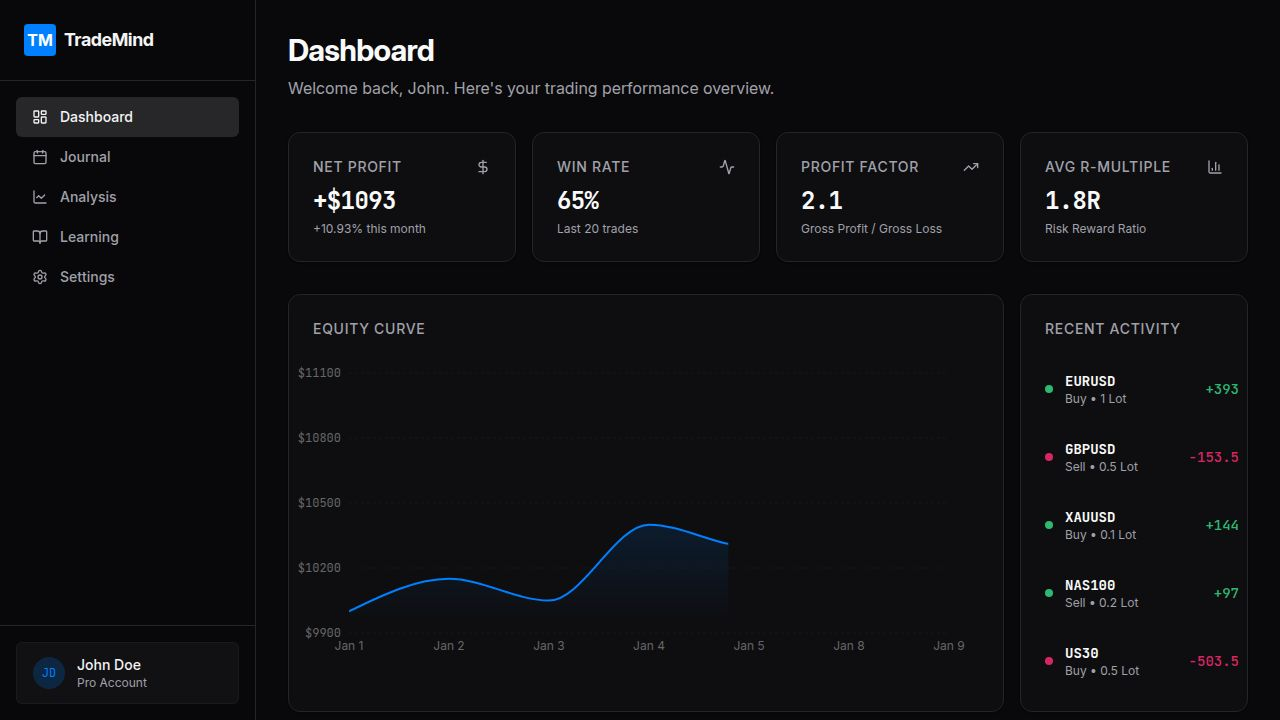
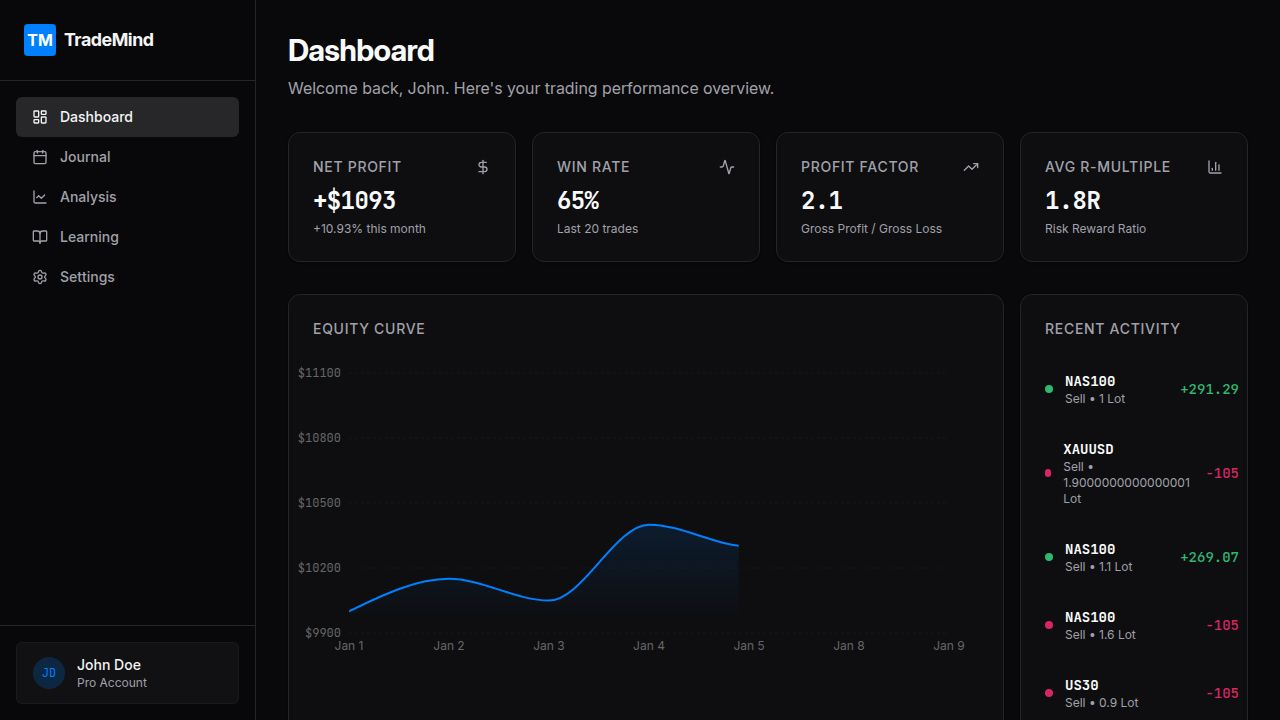
Show cash drawdown and trades without stop losses
Update trade detail and journal views to display cash drawdown values. Enhance handling and visualization for trades executed without a hard stop loss, including distinct visual indicators and dynamic risk meters. Modify mock data generation to include cash drawdown and nullable stop loss fields.

Replit-Commit-Author: Agent
Replit-Commit-Session-Id: adc6ed05-09b4-4daa-a0f5-c6fe3a082ec6
Replit-Commit-Checkpoint-Type: full_checkpoint
Replit-Commit-Event-Id: 38c60733-19ca-41ec-b584-8cf8ec9b6a53
Replit-Commit-Screenshot-Url: https://storage.googleapis.com/screenshot-production-us-central1/bfe7f2a2-c9fd-4262-94a4-60b7cccc9a91/adc6ed05-09b4-4daa-a0f5-c6fe3a082ec6/rLb1wAi
Replit-Helium-Checkpoint-Created: true

diff --git a/client/src/components/trade-detail.tsx b/client/src/components/trade-detail.tsx
@@ -6,9 +6,8 @@ import { Badge } from "@/components/ui/badge";
 import { ScrollArea } from "@/components/ui/scroll-area";
 import { Trade } from "@/lib/mock-data";
 import { format } from "date-fns";
-import { Sparkles, AlertTriangle, CheckCircle2, TrendingDown, Target, ShieldAlert } from "lucide-react";
+import { Sparkles, AlertTriangle, CheckCircle2, ShieldAlert, Ban } from "lucide-react";
 import { cn } from "@/lib/utils";
-import { Progress } from "@/components/ui/progress";
 
 interface TradeDetailProps {
   trade: Trade | null;
@@ -22,10 +21,10 @@ export function TradeDetail({ trade, isOpen, onClose }: TradeDetailProps) {
   const isWin = trade.netPnl > 0;
   
   // Calculate percentages for the drawdown visualization
-  // Total range = Risk + MFE (visualize the full excursion of the trade)
-  const maeRatio = Math.min(trade.mae / trade.risk, 1.2); // Cap at 120% for visual
-  const mfeRatio = trade.mfe / trade.risk;
+  // If NO SL, we use a synthetic "risk" baseline of 20 points just for visualization scaling
+  const visualRiskBaseline = trade.risk || 20; 
   
+  const maeRatio = Math.min(trade.mae / visualRiskBaseline, 1.5); // Cap at 150%
   const maePercent = Math.round(maeRatio * 100);
 
   return (
@@ -63,9 +62,9 @@ export function TradeDetail({ trade, isOpen, onClose }: TradeDetailProps) {
                 <div className="font-mono font-medium">{trade.closePrice.toFixed(4)}</div>
               </div>
               <div>
-                <div className="text-xs text-muted-foreground mb-1 uppercase tracking-wider">R-Mult</div>
-                <div className={cn("font-mono font-medium", isWin ? "text-profit" : "text-loss")}>
-                  {(trade.pnl / 100).toFixed(1)}R
+                <div className="text-xs text-muted-foreground mb-1 uppercase tracking-wider">Risk</div>
+                <div className={cn("font-mono font-medium text-xs", !trade.risk && "text-destructive")}>
+                  {trade.risk ? `-${trade.risk}pts` : "NO SL"}
                 </div>
               </div>
             </div>
@@ -83,15 +82,20 @@ export function TradeDetail({ trade, isOpen, onClose }: TradeDetailProps) {
               <div className="space-y-2">
                 <div className="flex justify-between text-xs font-medium">
                   <span className="text-muted-foreground">Entry</span>
-                  <span className="text-destructive">Stop Loss Risk ({trade.risk} pts)</span>
+                  {trade.risk ? (
+                    <span className="text-destructive">Stop Loss Risk ({trade.risk} pts)</span>
+                  ) : (
+                    <span className="text-destructive flex items-center gap-1"><Ban className="w-3 h-3" /> No Hard Stop</span>
+                  )}
                 </div>
                 
                 {/* Custom Risk Meter */}
-                <div className="relative h-4 bg-muted rounded-full overflow-hidden w-full">
+                <div className="relative h-6 bg-muted rounded-md overflow-hidden w-full border border-border/50">
                   {/* Heat Bar (MAE) */}
                   <div 
                     className={cn(
-                      "absolute top-0 left-0 h-full transition-all duration-500 rounded-full",
+                      "absolute top-0 left-0 h-full transition-all duration-500",
+                      !trade.risk && trade.mae > 30 ? "bg-destructive animate-pulse" : // No SL and huge drawdown
                       maeRatio > 1 ? "bg-destructive" : // Hit SL
                       maeRatio > 0.8 ? "bg-orange-500" : // High heat
                       maeRatio > 0.5 ? "bg-yellow-500" : // Moderate heat
@@ -100,24 +104,33 @@ export function TradeDetail({ trade, isOpen, onClose }: TradeDetailProps) {
                     style={{ width: `${Math.min(maePercent, 100)}%` }}
                   />
                   
-                  {/* Stop Loss Marker Line */}
-                  <div className="absolute top-0 right-0 w-0.5 h-full bg-destructive z-10" />
+                  {/* Text Overlay on Bar */}
+                  <div className="absolute inset-0 flex items-center px-2 z-10">
+                     <span className="text-[10px] font-mono font-bold text-white drop-shadow-md">
+                       -${trade.mae_cash.toFixed(2)} ({trade.mae}pts)
+                     </span>
+                  </div>
+                  
+                  {/* Stop Loss Marker Line (only if SL exists) */}
+                  {trade.risk && (
+                    <div className="absolute top-0 right-0 w-0.5 h-full bg-destructive z-10 opacity-50" />
+                  )}
                 </div>
 
                 <div className="flex justify-between items-start text-xs font-mono pt-1">
                   <div>
-                    <span className="text-muted-foreground">Max Adverse: </span>
+                    <span className="text-muted-foreground">Max Heat: </span>
                     <span className={cn(
                       "font-bold",
                       maeRatio > 0.8 ? "text-destructive" : "text-foreground"
                     )}>
-                      {trade.mae} pts ({maePercent}%)
+                      {trade.mae} pts
                     </span>
                   </div>
                   <div>
-                    <span className="text-muted-foreground">Max Favorable: </span>
+                    <span className="text-muted-foreground">Peak Profit: </span>
                     <span className="text-profit font-bold">
-                      {trade.mfe} pts
+                      +{trade.mfe} pts
                     </span>
                   </div>
                 </div>
@@ -128,16 +141,17 @@ export function TradeDetail({ trade, isOpen, onClose }: TradeDetailProps) {
                 <div className="bg-accent/30 rounded-lg p-3 border border-border">
                   <div className="text-xs text-muted-foreground uppercase tracking-wider mb-1">Drawdown Efficiency</div>
                   <div className="text-sm font-medium">
-                    {maeRatio < 0.2 ? "sniper entry (no heat)" :
-                     maeRatio < 0.5 ? "Clean entry (normal noise)" :
-                     maeRatio < 0.9 ? "Heavy drawdown (held thru)" :
+                    {!trade.risk ? "Unprotected Trade" :
+                     maeRatio < 0.2 ? "Sniper entry" :
+                     maeRatio < 0.5 ? "Clean entry" :
+                     maeRatio < 0.9 ? "Heavy drawdown" :
                      "Stopped out / Failed"}
                   </div>
                 </div>
                 <div className="bg-accent/30 rounded-lg p-3 border border-border">
-                   <div className="text-xs text-muted-foreground uppercase tracking-wider mb-1">Excursion Ratio</div>
-                   <div className="text-sm font-medium font-mono">
-                     1:{ (trade.mfe / (trade.mae || 1)).toFixed(1) }
+                   <div className="text-xs text-muted-foreground uppercase tracking-wider mb-1">Max Cash Risk</div>
+                   <div className="text-sm font-medium font-mono text-destructive">
+                     -${trade.mae_cash.toFixed(2)}
                    </div>
                 </div>
               </div>

diff --git a/client/src/lib/mock-data.ts b/client/src/lib/mock-data.ts
@@ -18,11 +18,13 @@ export type Trade = {
   notes: string;
   // Risk & Drawdown fields
   mae: number; // Maximum Adverse Excursion (points/pips)
+  mae_cash: number; // Maximum Adverse Excursion (cash value)
   mfe: number; // Maximum Favorable Excursion (points/pips)
-  risk: number; // Planned Stop Loss distance (points/pips)
+  risk: number | null; // Planned Stop Loss distance (points/pips) - Null if no SL
+  risk_cash: number | null; // Planned Stop Loss value (cash) - Null if no SL
   entry_price: number; 
-  sl_price: number;
-  tp_price: number;
+  sl_price: number | null;
+  tp_price: number | null;
   
   aiSummary?: {
     summary: string;
@@ -52,30 +54,45 @@ const generateMockTrades = (): Trade[] => {
       for (let i = 0; i < numTrades; i++) {
         const isWin = Math.random() > 0.45; // 55% win rate
         const side = Math.random() > 0.5 ? "BUY" : "SELL";
+        const hasSL = Math.random() > 0.2; // 20% trades have NO SL
         
         // Mock points calculation (simplified)
-        const riskPoints = Math.floor(Math.random() * 20) + 10; // 10-30 points risk
+        const riskPointsBase = Math.floor(Math.random() * 20) + 10; // 10-30 points standard risk
+        const riskPoints = hasSL ? riskPointsBase : null;
+        
+        // If No SL, we still need a "virtual risk" for reward calculation logic, or just random
+        const virtualRisk = riskPointsBase;
+        
         const rewardPoints = isWin 
-          ? riskPoints * (Math.random() * 2 + 1) // 1R to 3R
-          : -Math.min(riskPoints * (Math.random() * 0.5 + 0.8), riskPoints); // 0.8R to 1R loss
+          ? virtualRisk * (Math.random() * 2 + 1) // 1R to 3R
+          : -Math.min(virtualRisk * (Math.random() * 0.5 + 0.8), virtualRisk); // 0.8R to 1R loss
         
         const openPrice = side === "BUY" ? 1.0850 : 1.0900; // Simplified
-        const riskAmount = 100; // $100 risk per trade
-        const pnl = (rewardPoints / riskPoints) * riskAmount;
+        const riskAmount = 100; // $100 risk per trade (standard)
+        
+        // Value per point calculation
+        const valuePerPoint = riskAmount / virtualRisk;
+        
+        const pnl = (rewardPoints * valuePerPoint);
 
         // MAE generation
-        // If it's a win, MAE is usually small (0 to 80% of risk)
-        // If it's a loss, MAE usually hits 100% of risk (hit SL) or close to it
-        const maePoints = isWin 
-          ? Math.random() * (riskPoints * 0.8) 
-          : riskPoints * (Math.random() * 0.2 + 0.9); // 90-110% of risk (slippage)
+        let maePoints = 0;
+        if (isWin) {
+           maePoints = Math.random() * (virtualRisk * 0.8);
+        } else {
+           // If loss and Has SL -> hit SL (approx)
+           if (hasSL) {
+             maePoints = virtualRisk * (Math.random() * 0.2 + 0.9);
+           } else {
+             // If loss and NO SL -> could be huge drawdown
+             maePoints = virtualRisk * (Math.random() * 3 + 1); // 1x to 4x virtual risk
+           }
+        }
 
         // MFE generation
-        // If win, MFE >= reward
-        // If loss, MFE is usually small
         const mfePoints = isWin
           ? rewardPoints * (Math.random() * 0.2 + 1)
-          : Math.random() * (riskPoints * 0.5);
+          : Math.random() * (virtualRisk * 0.5);
 
         trades.push({
           id: `TRD-${tradeIdCounter++}`,
@@ -90,22 +107,26 @@ const generateMockTrades = (): Trade[] => {
           commission: -5,
           swap: 0,
           netPnl: Number((pnl - 5).toFixed(2)),
-          tags: isWin ? ["Trend", "A+"] : ["Chop", "Mistake"],
+          tags: isWin ? ["Trend", "A+"] : !hasSL ? ["No SL", "Risky"] : ["Chop"],
           setup: isWin ? "Breakout" : "Reversal",
-          notes: isWin ? "Great execution" : "Forced the trade",
+          notes: !hasSL ? "Managed manually without hard SL." : "Standard execution.",
           
           mae: Number(maePoints.toFixed(1)),
+          mae_cash: Number((maePoints * valuePerPoint).toFixed(2)),
           mfe: Number(mfePoints.toFixed(1)),
-          risk: Number(riskPoints.toFixed(1)),
+          
+          risk: riskPoints ? Number(riskPoints.toFixed(1)) : null,
+          risk_cash: riskPoints ? Number((riskPoints * valuePerPoint).toFixed(2)) : null,
+          
           entry_price: openPrice,
-          sl_price: side === "BUY" ? openPrice - (riskPoints * 0.0001) : openPrice + (riskPoints * 0.0001),
-          tp_price: side === "BUY" ? openPrice + (riskPoints * 2 * 0.0001) : openPrice - (riskPoints * 2 * 0.0001),
+          sl_price: hasSL ? (side === "BUY" ? openPrice - (riskPoints! * 0.0001) : openPrice + (riskPoints! * 0.0001)) : null,
+          tp_price: hasSL ? (side === "BUY" ? openPrice + (riskPoints! * 2 * 0.0001) : openPrice - (riskPoints! * 2 * 0.0001)) : null,
 
           aiSummary: {
             summary: isWin ? "Clean move, followed plan." : "Entered too early against momentum.",
             execution: isWin ? "Good" : "Bad",
-            mistake: isWin ? null : "FOMO",
-            improvement: isWin ? "Add to winner next time" : "Wait for candle close"
+            mistake: !hasSL ? "Trading without SL" : null,
+            improvement: !hasSL ? "Always define max risk" : "Wait for candle close"
           }
         });
       }

diff --git a/client/src/pages/journal.tsx b/client/src/pages/journal.tsx
@@ -64,44 +64,47 @@ export default function Journal() {
                       No trades found for this day.
                     </div>
                   ) : (
-                    filteredTrades.map(trade => (
-                      <div 
-                        key={trade.id}
-                        onClick={() => setSelectedTrade(trade)}
-                        className="p-3 rounded-lg border border-border hover:bg-accent/50 cursor-pointer transition-colors group relative overflow-hidden"
-                      >
-                         {/* Mini MAE bar on side */}
-                         <div 
-                           className={cn(
-                             "absolute left-0 top-0 bottom-0 w-1",
-                             (trade.mae / trade.risk) > 0.8 ? "bg-destructive" :
-                             (trade.mae / trade.risk) > 0.5 ? "bg-yellow-500" : "bg-emerald-500"
-                           )}
-                         />
+                    filteredTrades.map(trade => {
+                      const visualRisk = trade.risk || 20;
+                      return (
+                        <div 
+                          key={trade.id}
+                          onClick={() => setSelectedTrade(trade)}
+                          className="p-3 rounded-lg border border-border hover:bg-accent/50 cursor-pointer transition-colors group relative overflow-hidden"
+                        >
+                           {/* Mini MAE bar on side */}
+                           <div 
+                             className={cn(
+                               "absolute left-0 top-0 bottom-0 w-1",
+                               (trade.mae / visualRisk) > 0.8 ? "bg-destructive" :
+                               (trade.mae / visualRisk) > 0.5 ? "bg-yellow-500" : "bg-emerald-500"
+                             )}
+                           />
 
-                        <div className="flex justify-between items-start mb-2 pl-2">
-                          <div className="flex items-center gap-2">
-                            <Badge variant={trade.side === "BUY" ? "default" : "destructive"} className="px-1.5 py-0 text-[10px]">
-                              {trade.side}
-                            </Badge>
-                            <span className="font-mono font-bold text-sm">{trade.symbol}</span>
+                          <div className="flex justify-between items-start mb-2 pl-2">
+                            <div className="flex items-center gap-2">
+                              <Badge variant={trade.side === "BUY" ? "default" : "destructive"} className="px-1.5 py-0 text-[10px]">
+                                {trade.side}
+                              </Badge>
+                              <span className="font-mono font-bold text-sm">{trade.symbol}</span>
+                            </div>
+                            <span className={cn(
+                              "font-mono font-medium text-sm",
+                              trade.netPnl > 0 ? "text-profit" : "text-loss"
+                            )}>
+                              {trade.netPnl > 0 ? "+" : ""}{trade.netPnl.toFixed(0)}
+                            </span>
                           </div>
-                          <span className={cn(
-                            "font-mono font-medium text-sm",
-                            trade.netPnl > 0 ? "text-profit" : "text-loss"
-                          )}>
-                            {trade.netPnl > 0 ? "+" : ""}{trade.netPnl.toFixed(0)}
-                          </span>
-                        </div>
-                        <div className="flex justify-between items-end pl-2">
-                          <span className="text-xs text-muted-foreground">{trade.setup}</span>
-                          <div className="flex gap-2 text-xs font-mono text-muted-foreground">
-                            <span>MAE: {trade.mae}</span>
-                            <span>{format(new Date(trade.closeTime), "HH:mm")}</span>
+                          <div className="flex justify-between items-end pl-2">
+                            <span className="text-xs text-muted-foreground">{trade.setup}</span>
+                            <div className="flex gap-2 text-xs font-mono text-muted-foreground">
+                              <span>MAE: -${trade.mae_cash.toFixed(2)}</span>
+                              <span>{format(new Date(trade.closeTime), "HH:mm")}</span>
+                            </div>
                           </div>
                         </div>
-                      </div>
-                    ))
+                      );
+                    })
                   )}
                 </div>
               </div>

diff --git a/client/src/components/calendar-pnl.tsx b/client/src/components/calendar-pnl.tsx
@@ -239,13 +239,15 @@ export function CalendarPnL({ trades, onSelectDate, selectedDate, onSelectTrade 
                   <th className="h-10 px-4 text-left align-middle font-medium text-muted-foreground uppercase tracking-wider text-xs">Date</th>
                   <th className="h-10 px-4 text-left align-middle font-medium text-muted-foreground uppercase tracking-wider text-xs">Symbol</th>
                   <th className="h-10 px-4 text-center align-middle font-medium text-muted-foreground uppercase tracking-wider text-xs">Side</th>
-                  <th className="h-10 px-4 text-center align-middle font-medium text-muted-foreground uppercase tracking-wider text-xs">Drawdown (MAE)</th>
+                  <th className="h-10 px-4 text-center align-middle font-medium text-muted-foreground uppercase tracking-wider text-xs">Drawdown (Cash)</th>
                   <th className="h-10 px-4 text-right align-middle font-medium text-muted-foreground uppercase tracking-wider text-xs">Net P&L</th>
                 </tr>
               </thead>
               <tbody>
                 {currentMonthTrades.length > 0 ? currentMonthTrades.sort((a,b) => new Date(b.closeTime).getTime() - new Date(a.closeTime).getTime()).map((trade) => {
-                   const maeRatio = Math.min(trade.mae / trade.risk, 1.2);
+                   // Logic for ratio: If no risk, use 20 as base for visual
+                   const visualRiskBaseline = trade.risk || 20;
+                   const maeRatio = Math.min(trade.mae / visualRiskBaseline, 1.2);
                    const maePercent = Math.round(maeRatio * 100);
                    
                    return (
@@ -262,11 +264,12 @@ export function CalendarPnL({ trades, onSelectDate, selectedDate, onSelectTrade 
                          </Badge>
                       </td>
                       <td className="p-4 align-middle">
-                        <div className="w-full max-w-[120px] mx-auto space-y-1">
-                          <div className="h-1.5 w-full bg-muted rounded-full overflow-hidden relative">
+                        <div className="w-full max-w-[140px] mx-auto space-y-1">
+                          <div className="h-2 w-full bg-muted rounded-full overflow-hidden relative border border-border/50">
                             <div 
                               className={cn(
                                 "h-full rounded-full",
+                                !trade.risk ? "bg-purple-500" : // Distinct color for No-SL trades
                                 maeRatio > 0.8 ? "bg-destructive" :
                                 maeRatio > 0.5 ? "bg-yellow-500" :
                                 "bg-emerald-500"
@@ -274,8 +277,9 @@ export function CalendarPnL({ trades, onSelectDate, selectedDate, onSelectTrade 
                               style={{ width: `${Math.min(maePercent, 100)}%` }}
                             />
                           </div>
-                          <div className="text-[10px] text-muted-foreground text-center">
-                            {trade.mae}pts ({maePercent}%)
+                          <div className="flex justify-between items-center text-[10px] font-mono">
+                            <span className="text-muted-foreground">{trade.mae}pts</span>
+                            <span className="font-bold text-destructive">-${trade.mae_cash.toFixed(2)}</span>
                           </div>
                         </div>
                       </td>
